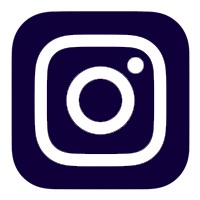
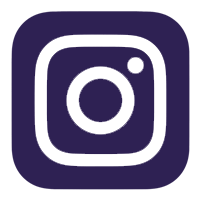
bar-succesfully-passed

diff --git a/src/components/ConnectBar/ConnectBar.scss b/src/components/ConnectBar/ConnectBar.scss
@@ -27,13 +27,11 @@
     height: 3vw;
     width: 3vw;
     margin: 0 3vw;
-    opacity: 87%;
   }
 
   &__twitter {
     height: 3vw;
     width: 3vw;
     margin: 0 3vw;
-    opacity: 87%;
   }
 }
